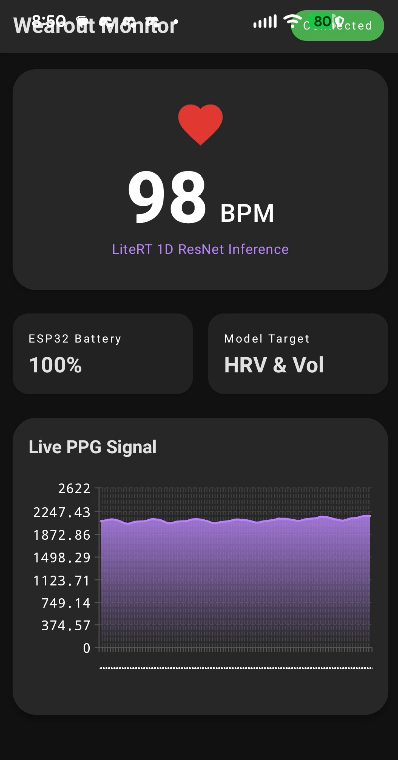
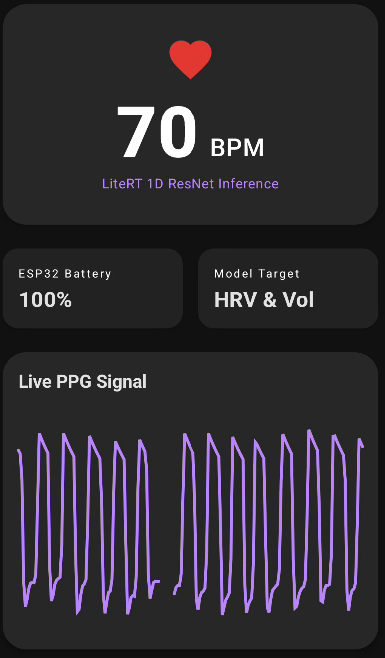
Update readme with wearout interface

diff --git a/README.md b/README.md
@@ -1,36 +1,42 @@
-# Wearout
+# Wearout ![badge][badge-android]
 
-**Wearout** is a modern Android application designed for real-time heart rate monitoring and signal
-analysis. It provides seamless connectivity to BLE pulse sensors (such as the Bluno Beetle Arduino
-chip) and leverages advanced on-device machine learning for heart rate estimation.
+**Wearout** is a modern Android application designed for real-time heart rate monitoring and pulse
+wave morphology analysis. It provides seamless connectivity to BLE pulse sensors and leverages
+advanced on-device machine learning for high-precision heart rate estimation.
 
-![Wearout](./artwork/Wearout.png)
+![Dashboard Interface](artwork/Wearout.png)
 
 ## Key Features
 
-### 1. Modern Dashboard Interface
+### 1. Medical-Grade Oscilloscope Dashboard
 
-The application features a sleek, data-driven dashboard built entirely with **Jetpack Compose**.
+The application features a sleek, high-performance dashboard built entirely with **Jetpack Compose
+**.
 
 * **Hero BPM Display**: A prominent heart rate indicator with a smooth pulsing animation synced to
   the detected rhythm.
-* **Real-time PPG Visualization**: A high-performance live chart powered by the **Vico charting
-  library**, displaying the raw PPG (Photoplethysmogram) signal with gradient fills and smooth line
-  interpolation.
+* **Real-time Oscilloscope Sweep**: A custom **Canvas-based** signal visualizer that implements a
+  professional "sweep" effect. It handles `Float.NaN` gaps in real-time to provide the
+  characteristic "moving eraser" effect found on clinical patient monitors.
+* **In-Place Adaptive Scaling**: The signal automatically zooms and centers within the view to
+  ensure maximum visibility of systolic and diastolic peaks, regardless of DC offset or signal
+  drift.
 * **Device Telemetry**: Real-time monitoring of ESP32 battery levels and connection status via a
   dynamic pill indicator.
 
 ### 2. LiteRT (TensorFlow Lite) Integration
 
-Wearout utilizes the latest **LiteRT** (formerly TensorFlow Lite) runtime for high-efficiency,
-on-device inference.
+Wearout utilizes the latest **LiteRT** runtime for high-efficiency, on-device inference.
 
-*   **1D ResNet Model**: Employs a specialized 1D Residual Network (`resnet10_5gamers.tflite`) to process 100-point signal windows for accurate heart rate estimation.
+* **1D ResNet Model**: Employs a specialized 1D Residual Network (`resnet10_5gamers.tflite`) to
+  process 100-point signal windows for accurate heart rate estimation.
+* **DC Blocker DSP**: Implements a standard DSP difference equation (
+  `y[n] = x[n] - x[n-1] + R * y[n-1]`) to strip massive DC baselines and slow signal drift before
+  visualization and inference.
 * **Native Stability**:
     * **Memory Mapping**: Uses `FileUtil` for robust, zero-copy model loading from assets.
-    * **CPU Optimization**: Configured with optimized threading and **XNNPACK** explicitly managed
-      for maximum compatibility across various Android architectures (including MediaTek and
-      Qualcomm).
+    * **CPU Optimization**: Configured with optimized threading and manual XNNPACK management for
+      maximum compatibility across various Android architectures.
     * **JNI Safety**: Implements a private lock mechanism to ensure stable initialization even when
       Android Studio instrumentation tools (like Live Edit) are active.
 
@@ -50,7 +56,7 @@ Low Energy.
 
 * **Android SDK**: Compiled against API 35.
 * **Kotlin**: 2.2.10
-* **Compose**: 1.5.4 (with Material 3 components)
+* **Compose**: 1.5.4
 
 ### Build Instructions
 
@@ -68,11 +74,10 @@ The project can be built via [Android Studio] or from the command line:
 
 ## Technical Architecture
 
-* **UI Layer**: Jetpack Compose (Material 3).
-* **Charting**: Vico (Compose-m3 integration).
+* **UI Layer**: Jetpack Compose (Material 2/3 Hybrid).
+* **Signal Processing**: Custom DSP (DC Blocker) + ArrayDeque Sliding Windows.
 * **ML Layer**: LiteRT 2.1.5 + LiteRT Support.
 * **Concurrency**: Kotlin Coroutines & Flow.
-* **Dependency Injection**: ViewModel with custom Factories for Activity-specific state.
 
 ## Legal Disclaimer
 